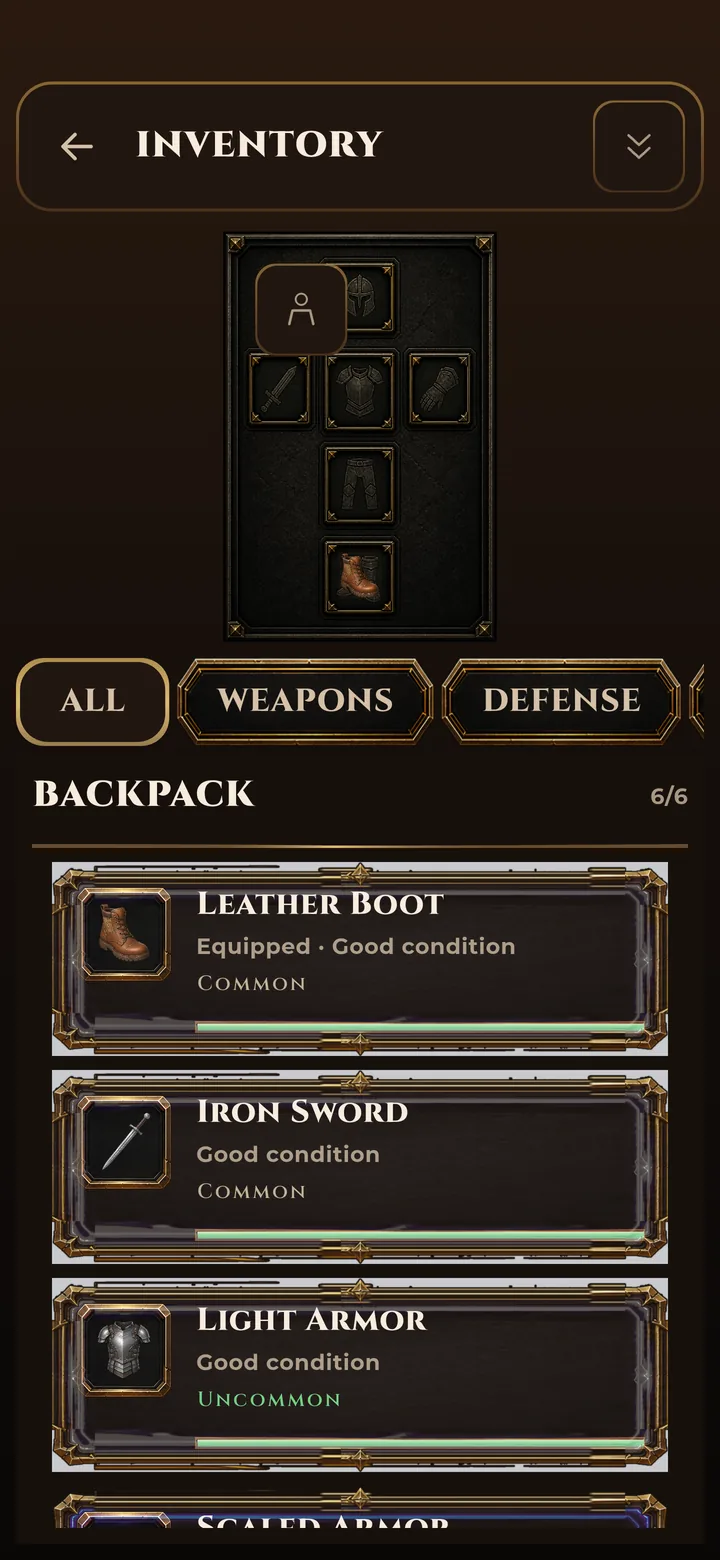
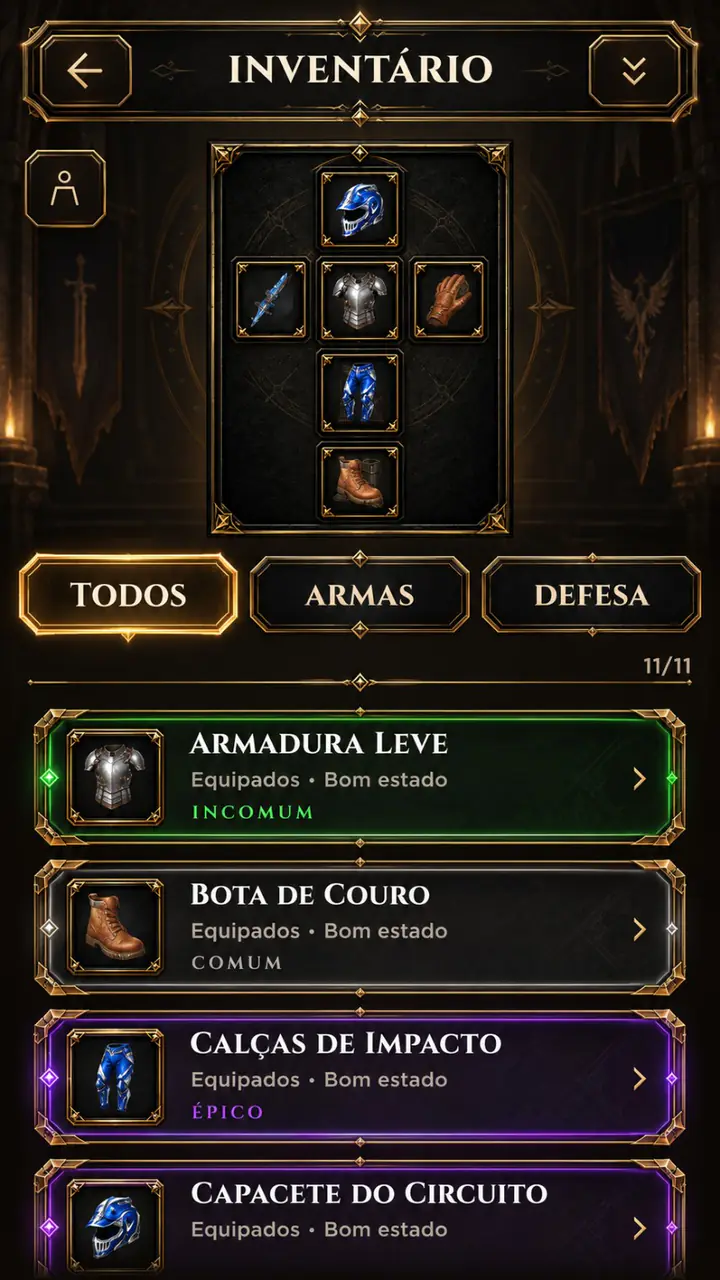
update

diff --git a/src/components/site/ScreenshotGallery.tsx b/src/components/site/ScreenshotGallery.tsx
@@ -70,6 +70,11 @@ export function ScreenshotGallery({
         className="screenshot-gallery__track"
         ref={trackRef}
         tabIndex={0}
+        aria-label={text(
+          "Percorra as capturas com as setas do teclado.",
+          "Browse the captures with the arrow keys.",
+          "Recorre las capturas con las flechas del teclado.",
+        )}
         onKeyDown={(event) => {
           if (event.key === "ArrowLeft") {
             event.preventDefault();
@@ -90,13 +95,6 @@ export function ScreenshotGallery({
           />
         ))}
       </div>
-      <p className="screenshot-gallery__hint">
-        {text(
-          "Use as setas do teclado ou os controles para percorrer as imagens.",
-          "Use the arrow keys or controls to browse the images.",
-          "Usa las flechas del teclado o los controles para recorrer las imágenes.",
-        )}
-      </p>
     </div>
   );
 }

diff --git a/src/app/globals.css b/src/app/globals.css
@@ -1721,12 +1721,6 @@ summary:focus-visible {
   scroll-snap-align: start;
 }
 
-.screenshot-gallery__hint {
-  margin: 0.4rem 0 0;
-  color: var(--color-text-muted);
-  font-size: 0.75rem;
-}
-
 .screenshot-frame {
   margin: 0;
   padding: 0.65rem;
